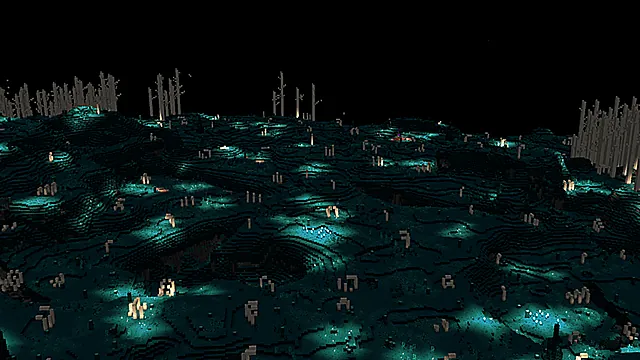
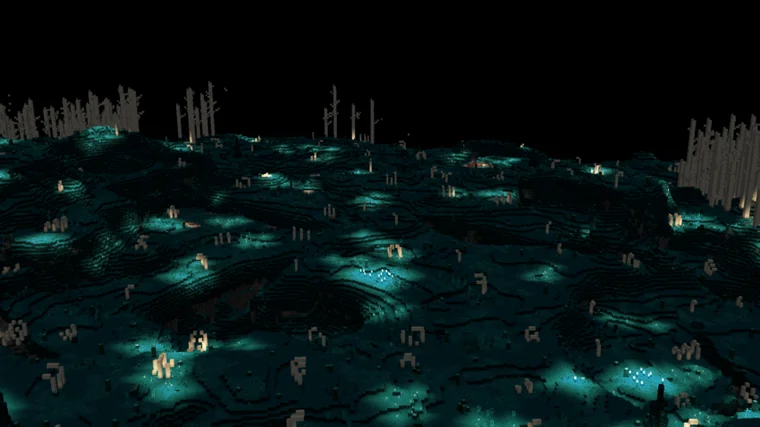
Add files via upload

diff --git a/app.js b/app.js
@@ -323,29 +323,29 @@
 
     // Sculks kartında hover'da arkada dönen ekran görüntüleri
     const SCULKS_SHOWCASE = [
-        { src: 'assets/sculks-showcase/01-sculk-blocks.webp', alt: "Arda's Sculks — glowing sculk blocks in a deep dark cave" },
-        { src: 'assets/sculks-showcase/02-shadow-hunter.webp', alt: "Arda's Sculks — Shadow Hunter boss in the ancient arena" },
-        { src: 'assets/sculks-showcase/03-radioactive-warden.webp', alt: "Arda's Sculks — Radioactive Warden boss arena" },
-        { src: 'assets/sculks-showcase/04-sculk-golem.webp', alt: "Arda's Sculks — Sculk Golem with glowing chest core" },
-        { src: 'assets/sculks-showcase/05-sculk-flowers.webp', alt: "Arda's Sculks — decorative sculk flowers and light sources" },
-        { src: 'assets/sculks-showcase/06-yellow-glow-forest.webp', alt: "Arda's Sculks — glowing yellow sculk forest at night" },
-        { src: 'assets/sculks-showcase/07-sculk-plains.webp', alt: "Arda's Sculks — glowing Sculk Plains biome landscape" },
-        { src: 'assets/sculks-showcase/08-dangerous-biome.webp', alt: "Arda's Sculks — dangerous biome with tall sculk plants" },
-        { src: 'assets/sculks-showcase/09-crystal-cave.webp', alt: "Arda's Sculks — colorful crystal cave chamber" },
-        { src: 'assets/sculks-showcase/10-pillar-forest.webp', alt: "Arda's Sculks — eerie glowing pillar forest at night" },
-        { src: 'assets/sculks-showcase/11-golem-shrine.webp', alt: "Arda's Sculks — glowing golem shrine chamber" },
-        { src: 'assets/sculks-showcase/12-purple-biome.webp', alt: "Arda's Sculks — purple glowing biome at night" },
-        { src: 'assets/sculks-showcase/13-ancient-vault.webp', alt: "Arda's Sculks — symmetrical ancient vault chamber from above" },
-        { src: 'assets/sculks-showcase/14-symmetric-chamber.webp', alt: "Arda's Sculks — symmetrical green ancient chamber from above" },
-        { src: 'assets/sculks-showcase/15-circular-structure.webp', alt: "Arda's Sculks — symmetrical ancient city structure from above" },
-        { src: 'assets/sculks-showcase/16-mushroom-forest.webp', alt: "Arda's Sculks — glowing giant mushroom forest" },
-        { src: 'assets/sculks-showcase/17-glowing-forest.webp', alt: "Arda's Sculks — glowing forest biome at dusk" },
-        { src: 'assets/sculks-showcase/18-glowing-build.webp', alt: "Arda's Sculks — glowing sculk house build at sunset" }
+        { src: 'assets/sculks-showcase/01-sculk-blocks.webp', alt: "Arda's Sculks — glowing sculk blocks in a deep dark cave", pos: '45% 55%' },
+        { src: 'assets/sculks-showcase/02-shadow-hunter.webp', alt: "Arda's Sculks — Shadow Hunter boss in the ancient arena", pos: '58% 28%' },
+        { src: 'assets/sculks-showcase/03-radioactive-warden.webp', alt: "Arda's Sculks — Radioactive Warden boss arena", pos: '50% 62%' },
+        { src: 'assets/sculks-showcase/04-sculk-golem.webp', alt: "Arda's Sculks — Sculk Golem with glowing chest core", pos: '50% 32%' },
+        { src: 'assets/sculks-showcase/05-sculk-flowers.webp', alt: "Arda's Sculks — decorative sculk flowers and light sources", pos: '50% 40%' },
+        { src: 'assets/sculks-showcase/06-yellow-glow-forest.webp', alt: "Arda's Sculks — glowing yellow sculk forest at night", pos: '50% 65%' },
+        { src: 'assets/sculks-showcase/07-sculk-plains.webp', alt: "Arda's Sculks — glowing Sculk Plains biome landscape", pos: '50% 60%' },
+        { src: 'assets/sculks-showcase/08-dangerous-biome.webp', alt: "Arda's Sculks — dangerous biome with tall sculk plants", pos: '35% 60%' },
+        { src: 'assets/sculks-showcase/09-crystal-cave.webp', alt: "Arda's Sculks — colorful crystal cave chamber", pos: '50% 55%' },
+        { src: 'assets/sculks-showcase/10-pillar-forest.webp', alt: "Arda's Sculks — eerie glowing pillar forest at night", pos: '50% 70%' },
+        { src: 'assets/sculks-showcase/11-golem-shrine.webp', alt: "Arda's Sculks — glowing golem shrine chamber", pos: '45% 35%' },
+        { src: 'assets/sculks-showcase/12-purple-biome.webp', alt: "Arda's Sculks — purple glowing biome at night", pos: '50% 65%' },
+        { src: 'assets/sculks-showcase/13-ancient-vault.webp', alt: "Arda's Sculks — symmetrical ancient vault chamber from above", pos: '50% 50%' },
+        { src: 'assets/sculks-showcase/14-symmetric-chamber.webp', alt: "Arda's Sculks — symmetrical green ancient chamber from above", pos: '50% 50%' },
+        { src: 'assets/sculks-showcase/15-circular-structure.webp', alt: "Arda's Sculks — symmetrical ancient city structure from above", pos: '50% 50%' },
+        { src: 'assets/sculks-showcase/16-mushroom-forest.webp', alt: "Arda's Sculks — glowing giant mushroom forest", pos: '50% 60%' },
+        { src: 'assets/sculks-showcase/17-glowing-forest.webp', alt: "Arda's Sculks — glowing forest biome at dusk", pos: '50% 45%' },
+        { src: 'assets/sculks-showcase/18-glowing-build.webp', alt: "Arda's Sculks — glowing sculk house build at sunset", pos: '40% 65%' }
     ];
     const SCULKS_SLOT_SECONDS = 1; // her görsel ~1 saniye görünür kalır
     function sculksShowcaseHtml() {
         const imgsHtml = SCULKS_SHOWCASE.map((img) =>
-            `<img src="${esc(img.src)}" alt="${esc(img.alt)}" decoding="async">`
+            `<img src="${esc(img.src)}" alt="${esc(img.alt)}" decoding="async" style="object-position:${esc(img.pos)}">`
         ).join('');
         return `<div class="sculks-permanent-bg"><img src="assets/sculks-showcase/bg-warden-shrine.webp" alt="Arda's Sculks — ancient warden shrine artwork" decoding="async"></div><div class="sculks-showcase" aria-hidden="true"><div class="sculks-gradient"></div>${imgsHtml}</div>`;
     }
